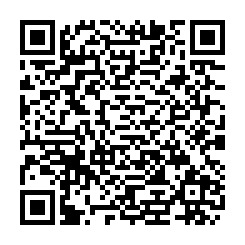
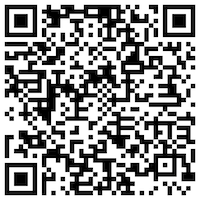
dynamic generation done

diff --git a/scott-hackx/src/contractInteraction.js b/scott-hackx/src/contractInteraction.js
@@ -1,12 +1,11 @@
 import contractAbi from './contract.json';
 const { ethers } = require("ethers");
-
 const provider = new ethers.providers.JsonRpcProvider('https://erpc.apothem.network');
     console.log('Provider initialized:', provider);
     const signer = provider.getSigner();
     const contractAddress = '0xb8b90fdca71590f035614c157c2605ec529fe46e'; // Replace with your contract address
     const contract = new ethers.Contract(contractAddress, contractAbi, signer);
-
+let tx = '';
 async function addSupplier(
   productId,
   name,
@@ -25,7 +24,7 @@ async function addSupplier(
     const contractAddress = '0xA9617BD6949ce4E434006Fe6A327dD536CFD9eAe'; // Replace with your contract address
     const contract = new ethers.Contract(contractAddress, contractAbi, signer);
 
-    const tx = await contract.addSupplier(
+    tx = await contract.addSupplier(
       productId,
       name,
       stock,
@@ -40,6 +39,7 @@ async function addSupplier(
     );
     await tx.wait();
     console.log('Supplier added successfully!');
+    console.log(tx.hash);
   } catch (error) {
     console.error('Error:', error);
   }
@@ -58,7 +58,7 @@ async function addSupplier(
     destinations
   ) {
     try {
-      const tx = await contract.addManufacturer(
+      tx = await contract.addManufacturer(
         productId,
         productType,
         name,
@@ -90,7 +90,7 @@ async function addSupplier(
     destinations
   ) {
     try {
-      const tx = await contract.addDistributor(
+      tx = await contract.addDistributor(
         productId,
         productType,
         name,
@@ -121,7 +121,7 @@ async function addSupplier(
     destinations
   ) {
     try {
-      const tx = await contract.addRetailer(
+      tx = await contract.addRetailer(
         productId,
         productType,
         name,
@@ -143,7 +143,7 @@ async function addSupplier(
 
   async function setProductReturns(productId, productType, productReturns) {
     try {
-      const tx = await contract.setProductReturns(
+      tx = await contract.setProductReturns(
         productId,
         productType,
         productReturns,
@@ -156,4 +156,4 @@ async function addSupplier(
     }
   }
 
-  export {addSupplier,addDistributor,addManufacturer,addRetailer,setProductReturns};
+  export {addSupplier,addDistributor,addManufacturer,addRetailer,setProductReturns,tx};

diff --git a/scott-hackx/src/components/ImageDisplay.js b/scott-hackx/src/components/ImageDisplay.js
@@ -1,29 +1,24 @@
-import React, { useState, useEffect } from 'react';
-import transact from './transact.png';
+import React, { useState } from 'react';
+import QRCode from 'qrcode.react'; // Import the QRCode component
+import { tx } from '../contractInteraction'; // Import the 'tx' variable from your contractInteraction.js file
 
-function ImageDisplay() {
-  const [showImage, setShowImage] = useState(false);
+function DynamicQRCode() {
+  const [showQR, setShowQR] = useState(false);
 
-  const handleValidateClick = () => {
-    setShowImage(true);
-
-    // Set a timeout to hide the image after 3 seconds
-    setTimeout(() => {
-      setShowImage(false);
-    }, 6000); // 3000 milliseconds = 3 seconds
+  const handleGenerateQR = () => {
+    setShowQR(true);
   };
-
+  let text = `https://explorer.apothem.network/tx/0x75f078d337eb7a3784bc0a2e55c680468d38c6dd6dea0da41d1d2533029efc8d#overview`
   return (
     <div>
-      <button onClick={handleValidateClick}>VALIDATE TRANSACTION</button>
-      <br />
-      {showImage && (
+      <button onClick={handleGenerateQR}>Validate Transaction</button>
+      {showQR && tx && (
         <div>
-          <img src={transact} alt="Your Image" />
+          <QRCode value={text} /> {/* Use the QRCode component with the 'tx' value */}
         </div>
       )}
     </div>
   );
 }
 
-export default ImageDisplay;
+export default DynamicQRCode;

diff --git a/scott-hackx/src/components/Home.js b/scott-hackx/src/components/Home.js
@@ -1,12 +1,8 @@
 import React, { useState } from 'react';
 import SupplierForm from './SupplierForm'; // Import your SupplierForm component
 import ManufacturerForm from './ManufacturerForm'; // Import your ManufacturerForm component
-// import ReturnsDetails from './ReturnsDetails'; // Import your ReturnsDetails component
 import DistributorForm from './DistributorForm'; // Import your DistributorForm component
 import RetailerForm from './RetailerForm'; // Import your RetailerForm component
-import Form from 'react-bootstrap/Form';
-import Button from 'react-bootstrap/Button';
-import Table from 'react-bootstrap/Table';
 import './rf.css';
 import Logo from './LogoLight.png'
 

diff --git a/scott-hackx/src/components/ReturnsForm.js b/scott-hackx/src/components/ReturnsForm.js
@@ -27,6 +27,7 @@ function ReturnsForm() {
       );
 
       alert('Product Returns set successfully!');
+      console.log(tx.hash);
     } catch (error) {
       console.error('Error:', error);
     }

diff --git a/scott-hackx/src/components/ManufacturerForm.js b/scott-hackx/src/components/ManufacturerForm.js
@@ -42,6 +42,7 @@ function ManufacturerForm() {
       );
 
       alert('Manufacturer added successfully!');
+      
     } catch (error) {
       console.error('Error:', error);
     }
